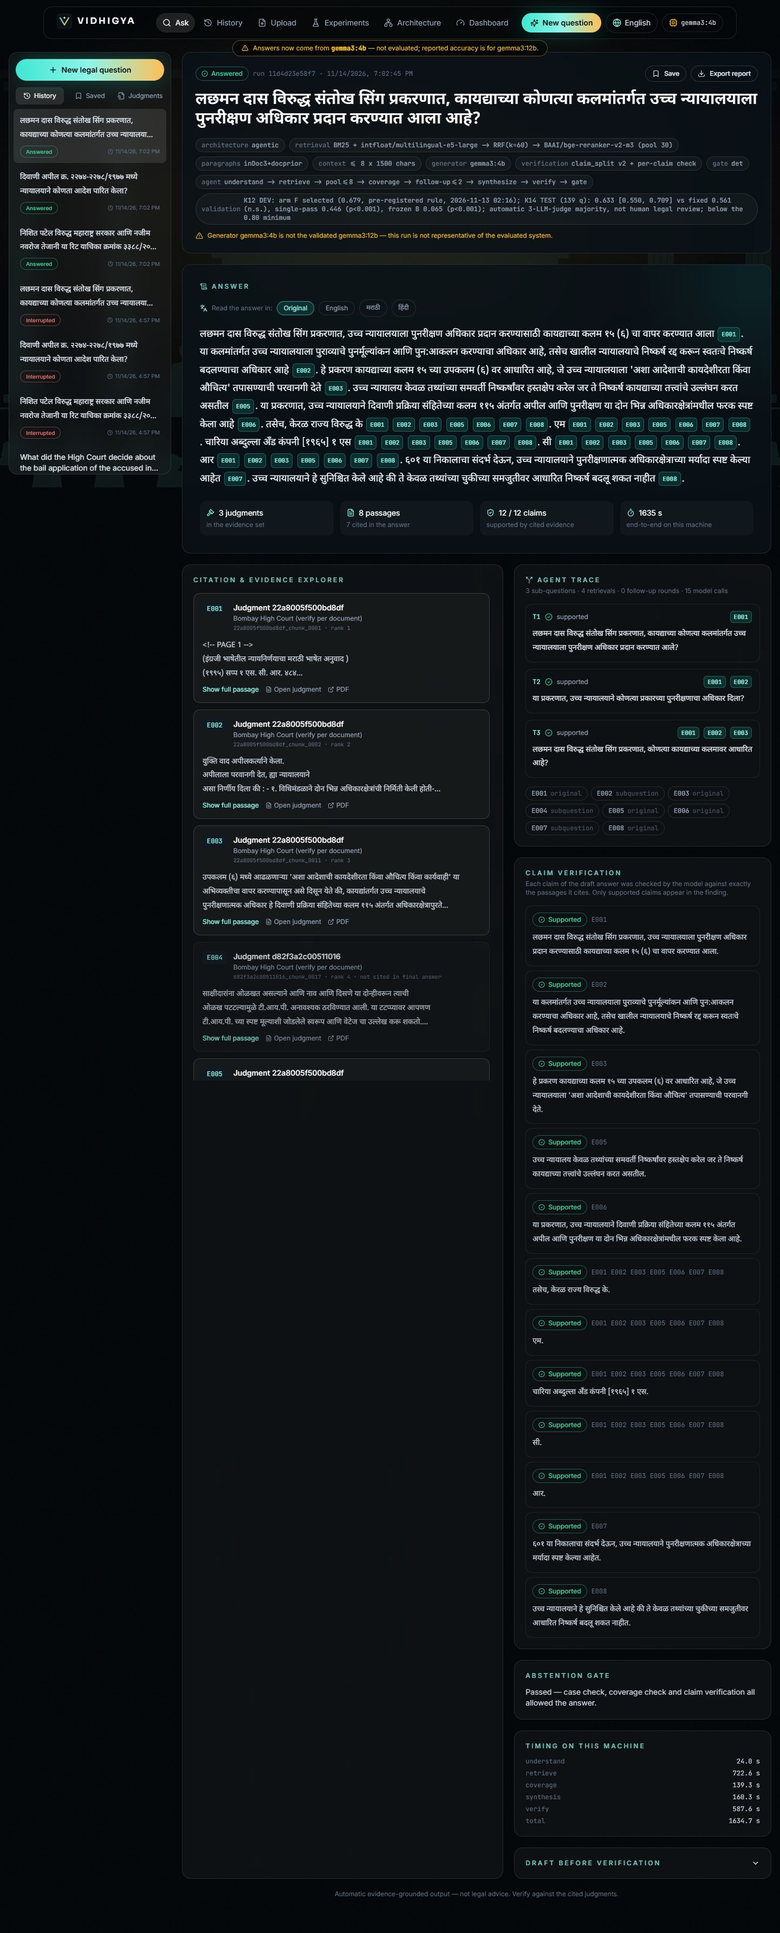
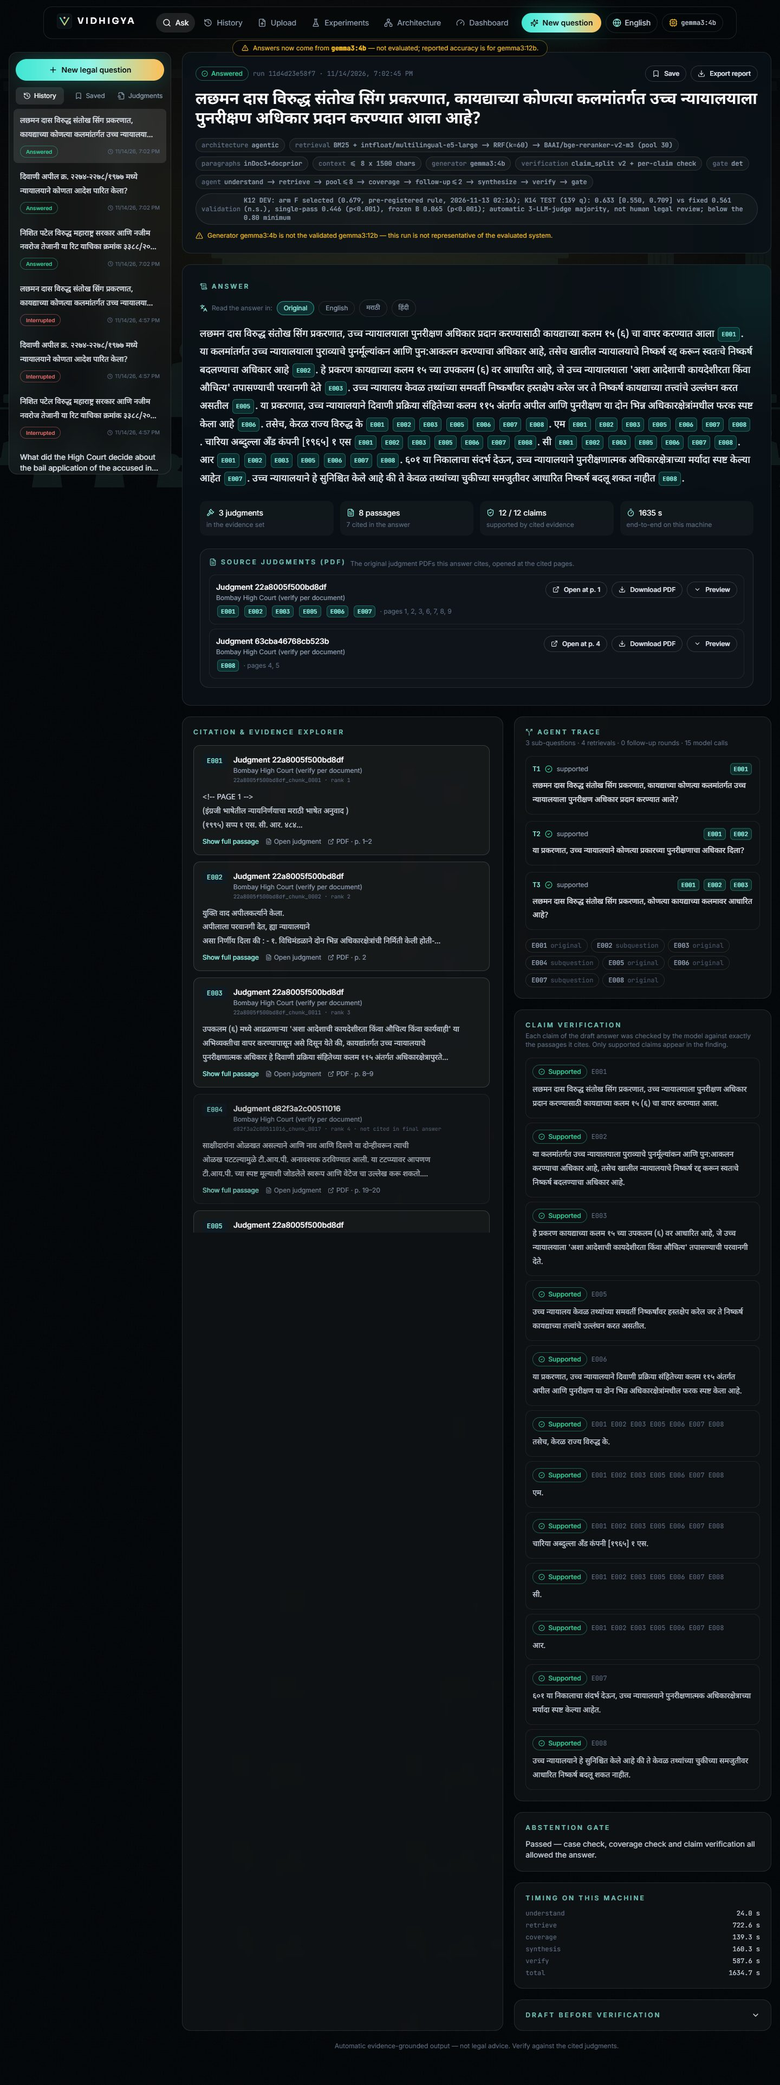
Return the source judgment PDFs with every answer
- API: each run now includes 'sources' (one entry per judgment in the evidence:
  cited or consulted, its evidence labels, the PDF pages of those passages and
  the PDF link) and every evidence item carries its PDF pages. Pages come from
  the '<!-- PAGE n -->' markers of the stored passages (a passage that starts
  mid-page continues the last marked page); uploaded judgments store their pages.
  Checked against the PDF text: all 8 passages of a sample run map to the right pages.
- /api/judgments/{doc}/pdf?download=1 saves the PDF named after the case number
- Answer page: 'Source judgments (PDF)' panel under the answer with Open at the
  cited page, Download PDF and an inline preview; for abstentions it lists the
  judgments consulted. Evidence cards' PDF links open at the passage's page.
- Export report lists the source PDFs with links to the cited pages
- Marathi and Hindi labels for the new panel; README and screenshot updated

Changed region(s): [[0.25, 0.0, 0.9688, 0.9952], [0.0, 0.0, 0.2188, 0.2488], [0.9062, 0.2799, 0.9375, 0.311]]

diff --git a/frontend/src/components/RunView.tsx b/frontend/src/components/RunView.tsx
@@ -2,7 +2,7 @@ import { Fragment, useEffect, useMemo, useRef, useState } from 'react'
 import { Link } from 'react-router-dom'
 import { AnimatePresence, motion } from 'framer-motion'
 import { AlertTriangle, Bookmark, BookmarkCheck, CheckCircle2, ChevronDown, Download, ExternalLink, FileText, Gavel, Loader2, ScrollText, ShieldAlert, ShieldCheck, Timer, XCircle } from 'lucide-react'
-import { api, isDeva, type Evidence, type Run, type RunEvent } from '../api'
+import { api, isDeva, type Evidence, type Run, type RunEvent, type Source } from '../api'
 import PipelineViz from './PipelineViz'
 import AgentTrace from './AgentTrace'
 import { stageIndex } from '../pipeline'
@@ -79,9 +79,43 @@ function EvidenceCard({ e, on, cited, onSelect }: { e: Evidence; on: boolean; ci
       <div className="mt-2 flex flex-wrap items-center gap-3 text-xs">
         <button onClick={() => setOpen(!open)} className="text-electric-300 hover:underline">{open ? t('show_less') : t('show_full')}</button>
         <Link to={`/judgments/${e.document_id}?chunk=${e.chunk_id}`} className="inline-flex items-center gap-1 text-slate-400 hover:text-white"><FileText size={12} />{t('open_judgment')}</Link>
-        <a href={api.pdfUrl(e.document_id)} target="_blank" rel="noreferrer" className="inline-flex items-center gap-1 text-slate-400 hover:text-white"><ExternalLink size={12} />PDF</a>
+        <a href={api.pdfUrl(e.document_id, e.pages?.[0])} target="_blank" rel="noreferrer" className="inline-flex items-center gap-1 text-slate-400 hover:text-white"><ExternalLink size={12} />PDF{e.pages?.length ? ` · p. ${e.pages.join('–')}` : ''}</a>
       </div>
     </motion.div>
+  )
+}
+
+const pageList = (p: number[]) => (p.length ? `${p.length === 1 ? 'page' : 'pages'} ${p.join(', ')}` : 'pages not recorded')
+
+// The source PDFs behind the answer: every judgment it cites (or, for an abstention, the judgments that were consulted),
+// opened at the cited page, downloadable, and previewable inline.
+function SourcePdfs({ sources, answered, onCite }: { sources: Source[]; answered: boolean; onCite: (id: string) => void }) {
+  const [preview, setPreview] = useState<string | null>(null)
+  const shown = answered ? sources.filter((s) => s.cited) : sources
+  if (!shown.length) return null
+  const open = shown.find((s) => s.document_id === preview)
+  return (
+    <div className="mt-6 rounded-2xl border border-white/10 bg-white/[0.02] p-4">
+      <div className="flex flex-wrap items-baseline gap-2"><div className="eyebrow flex items-center gap-2"><FileText size={14} />{answered ? 'Source judgments (PDF)' : 'Judgments consulted (PDF)'}</div>
+        <span className="text-xs text-slate-500">{answered ? 'The original judgment PDFs this answer cites, opened at the cited pages.' : 'No answer was released; these are the judgments the evidence came from.'}</span></div>
+      <ul className="mt-3 space-y-2">{shown.map((s) => { const j = s.judgment; const ids = s.cited_ids.length ? s.cited_ids : s.evidence_ids
+        return (<li key={s.document_id} className={`rounded-xl border p-3 transition ${preview === s.document_id ? 'border-electric-400/50 bg-electric-500/[0.05]' : 'border-white/[0.07]'}`}>
+          <div className="flex flex-wrap items-start gap-3">
+            <div className="min-w-0 flex-1">
+              <Link to={`/judgments/${s.document_id}`} className="block text-sm font-medium text-white hover:underline">{j?.case_title || `Judgment ${s.document_id}`}</Link>
+              <div className="mt-0.5 text-xs text-slate-400">{[j?.case_number, j?.court, j?.decision_date].filter(Boolean).join(' · ') || s.document_id}</div>
+              <div className="mt-1.5 flex flex-wrap items-center gap-1.5 text-xs text-slate-500">
+                {ids.map((id) => <button key={id} onClick={() => onCite(id)} className="cite">{id}</button>)}<span>· {pageList(s.pages)}</span></div>
+            </div>
+            {s.pdf_available ? (<div className="flex flex-wrap gap-2">
+              <a href={api.pdfUrl(s.document_id, s.first_page)} target="_blank" rel="noreferrer" className="btn-ghost px-3 py-1.5 text-xs"><ExternalLink size={13} />{s.first_page ? `Open at p. ${s.first_page}` : 'Open PDF'}</a>
+              <a href={api.pdfDownloadUrl(s.document_id)} className="btn-ghost px-3 py-1.5 text-xs"><Download size={13} />Download PDF</a>
+              <button onClick={() => setPreview(preview === s.document_id ? null : s.document_id)} className="btn-ghost px-3 py-1.5 text-xs">{preview === s.document_id ? <ChevronDown size={13} className="rotate-180" /> : <ChevronDown size={13} />}{preview === s.document_id ? 'Hide preview' : 'Preview'}</button>
+            </div>) : <span className="text-xs text-warn">PDF not available on this server</span>}
+          </div>
+        </li>) })}</ul>
+      {open && <iframe key={open.document_id} title={`PDF of ${open.document_id}`} src={api.pdfUrl(open.document_id, open.first_page)} className="mt-3 h-[75vh] w-full rounded-xl border border-white/10 bg-white" />}
+    </div>
   )
 }
 
@@ -163,6 +197,7 @@ export default function RunView({ runId, onChange }: { runId: string; onChange: 
               [ShieldCheck, `${supported} / ${run.claims.length} claims`, 'supported by cited evidence'], [Timer, run.timings?.total_ms ? `${(run.timings.total_ms / 1000).toFixed(0)} s` : '—', 'end-to-end on this machine']].map(([I, a, b], i) => {
               const Icon = I as typeof Gavel; return (<div key={i} className="rounded-xl bg-white/[0.03] p-3"><div className="flex items-center gap-2 text-white"><Icon size={15} className="text-electric-300" />{a as string}</div><div className="mt-1 text-xs text-slate-500">{b as string}</div></div>) })}
           </div>
+          <SourcePdfs sources={run.sources ?? []} answered={run.outcome === 'answered'} onCite={(id) => { setActive(id); setClaimSel(null) }} />
         </div>
 
         <div className="grid gap-5 xl:grid-cols-[1.25fr_1fr]">

diff --git a/frontend/src/api.ts b/frontend/src/api.ts
@@ -1,13 +1,18 @@
 // Typed client for the VIDHIGYA FastAPI backend. Every value shown in the UI comes from these endpoints.
 export type Judgment = { document_id: string; case_title?: string | null; case_number?: string | null; court?: string | null;
   decision_date?: string | null; case_type?: string | null; language?: string | null; page_count?: number | null; file_name?: string | null }
-export type Evidence = { evidence_id: string; rank: number; chunk_id: string; document_id: string; passage: string; score: number | null; judgment: Judgment | null }
+export type Evidence = { evidence_id: string; rank: number; chunk_id: string; document_id: string; passage: string; score: number | null; judgment: Judgment | null;
+  pages?: number[] }
+// one judgment behind an answer: its PDF and the pages of the passages the answer cites from it
+export type Source = { document_id: string; judgment: Judgment | null; cited: boolean; cited_ids: string[]; evidence_ids: string[];
+  pages: number[]; first_page: number | null; pdf_available: boolean; pdf_url: string }
 export type Claim = { idx: number; claim: string; cited: string[]; supported: number; reason: string }
 export type RunEvent = { ts: number; stage: string; message: string }
 export type Run = { run_id: string; created_at: string; question: string; status: 'queued' | 'running' | 'done' | 'error' | 'interrupted';
   stage: string; outcome: string | null; answer: string | null; citations: string[] | null; raw_answer: string | null;
   gate: { blocked: boolean; reason: string | null; mode?: string; case_gate?: string | null } | null; config: Record<string, string> | null;
-  timings: Record<string, number> | null; error: string | null; saved: number; agent: AgentInfo | null; evidence: Evidence[]; claims: Claim[]; events: RunEvent[] }
+  timings: Record<string, number> | null; error: string | null; saved: number; agent: AgentInfo | null; evidence: Evidence[]; claims: Claim[]; events: RunEvent[];
+  sources?: Source[] }
 export type AgentTask = { task_id: string; question: string; followup_queries?: string[] }
 export type Coverage = { task_id: string; status: 'supported' | 'partial' | 'missing'; supporting_ids: string[]; missing: string }
 export type AgentInfo = { tasks: AgentTask[]; analysis: { is_multi_part: boolean; accepted: string[]; rejected: string[]; fallback: boolean } | null;
@@ -53,7 +58,9 @@ export const api = {
   searchJudgments: (q: string) => j<Judgment[]>(`/api/judgments?q=${encodeURIComponent(q)}`),
   translate: (id: string, lang: string) => j<{ lang: string; text: string; model: string; cached: boolean }>(`/api/research/${id}/translate?lang=${lang}`, { method: 'POST' }),
   exportUrl: (id: string) => `/api/research/${id}/export`,
-  pdfUrl: (doc: string) => `/api/judgments/${doc}/pdf`,
+  // PDF of a judgment; page opens the browser's PDF viewer at that page, download saves the file
+  pdfUrl: (doc: string, page?: number | null) => `/api/judgments/${doc}/pdf${page ? `#page=${page}` : ''}`,
+  pdfDownloadUrl: (doc: string) => `/api/judgments/${doc}/pdf?download=1`,
   // live stage events (Server-Sent Events); returns a function that closes the stream
   events: (id: string, onEvent: (e: RunEvent) => void, onEnd: () => void) => {
     const es = new EventSource(`/api/research/${id}/events`)

diff --git a/frontend/src/uiTranslations.ts b/frontend/src/uiTranslations.ts
@@ -151,4 +151,10 @@ export const UI: [string, string, string][] = [
   ['— fair-to-moderate; results are automatic, not human legal review.', '— साधारण ते मध्यम; निकाल स्वयंचलित, मानवी कायदेशीर तपासणी नाही.', '— सामान्य से मध्यम; परिणाम स्वचालित, मानवीय कानूनी समीक्षा नहीं.'],
   // run view, experiments page, fast mode
   ['Fast mode', 'जलद पद्धत', 'तेज़ मोड'],
+  // source judgment PDFs under the answer
+  ['Source judgments (PDF)', 'स्रोत निकाल (PDF)', 'स्रोत निर्णय (PDF)'], ['Judgments consulted (PDF)', 'तपासलेले निकाल (PDF)', 'देखे गए निर्णय (PDF)'],
+  ['The original judgment PDFs this answer cites, opened at the cited pages.', 'या उत्तरात संदर्भित केलेल्या मूळ निकालांच्या PDF, संदर्भित पानावर उघडतात.', 'इस उत्तर में उद्धृत मूल निर्णयों की PDF, उद्धृत पृष्ठ पर खुलती हैं.'],
+  ['No answer was released; these are the judgments the evidence came from.', 'उत्तर दिले गेले नाही; पुरावे या निकालांमधून घेतले होते.', 'कोई उत्तर नहीं दिया गया; साक्ष्य इन निर्णयों से लिए गए थे.'],
+  ['Open PDF', 'PDF उघडा', 'PDF खोलें'], ['Download PDF', 'PDF डाउनलोड करा', 'PDF डाउनलोड करें'], ['Preview', 'पूर्वावलोकन', 'पूर्वावलोकन'],
+  ['Hide preview', 'पूर्वावलोकन लपवा', 'पूर्वावलोकन छिपाएँ'], ['PDF not available on this server', 'या सर्व्हरवर PDF उपलब्ध नाही', 'इस सर्वर पर PDF उपलब्ध नहीं'],
 ]

diff --git a/backend/app/main.py b/backend/app/main.py
@@ -3,7 +3,7 @@ research result files at request time (never hard-coded)."""
 from __future__ import annotations
 import os
 os.environ.setdefault('HF_HUB_OFFLINE', '1')  # cached models only: no network checks at start-up
-import asyncio, csv, json, os, threading
+import asyncio, csv, json, os, re, threading
 from pathlib import Path
 from datetime import datetime, timezone
 from fastapi import Depends, FastAPI, File, Header, HTTPException, Request, UploadFile
@@ -28,6 +28,62 @@ class ResearchIn(BaseModel):
     question: str = Field(min_length=5, max_length=2000)
 
 
+_PAGE = re.compile(r'<!--\s*PAGE\s+(\d+)\s*-->')
+
+
+def _passage_pages(con, ev):
+    """chunk_id -> PDF pages the stored passage spans. Corpus chunks carry '<!-- PAGE n -->' markers; a chunk that starts
+    mid-page continues the last page marked in the earlier chunks of the same judgment. Uploaded chunks store their pages."""
+    out = {}
+    for doc in {e['document_id'] for e in ev}:
+        want = {e['chunk_id'] for e in ev if e['document_id'] == doc}
+        if doc.startswith('up_'):
+            for r in U.db().execute(f"SELECT chunk_id, pages FROM upload_chunks WHERE chunk_id IN ({','.join('?' * len(want))})", list(want)):
+                try:
+                    out[r['chunk_id']] = sorted({int(p) for p in json.loads(r['pages'] or '[]')})
+                except (TypeError, ValueError):
+                    out[r['chunk_id']] = []
+            continue
+        current = None
+        for r in con.execute('SELECT chunk_id, text FROM chunks WHERE document_id=? ORDER BY chunk_id', (doc,)):
+            text = r['text'] or ''
+            own = [int(p) for p in _PAGE.findall(text)]
+            if r['chunk_id'] in want:
+                lead = [] if _PAGE.match(text.lstrip()) or current is None else [current]
+                out[r['chunk_id']] = sorted(set(lead + own))
+            if own:
+                current = own[-1]
+    return out
+
+
+def _pdf_path(doc):
+    if doc.startswith('up_'):
+        return Path(C.UPLOADS_DIR) / 'pdfs' / f'{doc}.pdf'
+    j = P.db().execute('SELECT file_name FROM judgments WHERE document_id=?', (doc,)).fetchone()
+    return Path(C.PDF_DIR) / j['file_name'] if j and j['file_name'] else None
+
+
+def _sources(ev, cited):
+    """One entry per judgment in the evidence: its PDF, the passages the answer cites from it and the pages they are on.
+    Judgments cited by the answer come first, in order of their best-ranked passage."""
+    by = {}
+    for e in ev:
+        s = by.setdefault(e['document_id'], {'document_id': e['document_id'], 'judgment': e.get('judgment'), 'evidence_ids': [],
+                                              'cited_ids': [], 'pages': set(), 'best_rank': e['rank']})
+        s['evidence_ids'].append(e['evidence_id'])
+        if e['evidence_id'] in cited:
+            s['cited_ids'].append(e['evidence_id'])
+    for s in by.values():
+        use = s['cited_ids'] or s['evidence_ids']
+        s['pages'] = sorted({p for e in ev if e['evidence_id'] in use for p in e.get('pages', [])})
+        s['first_page'] = s['pages'][0] if s['pages'] else None
+        s['cited'] = bool(s['cited_ids'])
+        p = _pdf_path(s['document_id'])
+        s['pdf_available'] = bool(p and p.exists())
+        s['pdf_url'] = f"/api/judgments/{s['document_id']}/pdf"
+    return sorted(by.values(), key=lambda s: (not s['cited'], s['best_rank']))
+
+
 def _run_json(run_id):
     con = P.db(); r = con.execute('SELECT * FROM research_runs WHERE run_id=?', (run_id,)).fetchone()
     if not r:
@@ -43,7 +99,11 @@ def _run_json(run_id):
             meta[e['document_id']] = U.judgment(e['document_id'])
     for e in ev:
         e['judgment'] = meta.get(e['document_id'])
+    pages = _passage_pages(con, ev)
+    for e in ev:
+        e['pages'] = pages.get(e['chunk_id'], [])
     d['evidence'] = ev
+    d['sources'] = _sources(ev, set(d.get('citations') or []))
     d['claims'] = [dict(x, cited=json.loads(x['cited'])) for x in con.execute('SELECT * FROM run_claims WHERE run_id=? ORDER BY idx', (run_id,))]
     d['events'] = [dict(x) for x in con.execute('SELECT ts, stage, message FROM run_events WHERE run_id=? ORDER BY ts', (run_id,))]
     return d
@@ -177,10 +237,17 @@ def translate(run_id: str, lang: str):
 
 
 @app.get('/api/research/{run_id}/export', response_class=PlainTextResponse)
-def export(run_id: str):
-    d = _run_json(run_id)
+def export(run_id: str, request: Request):
+    d = _run_json(run_id); base = str(request.base_url).rstrip('/')
     L = [f"# VIDHIGYA research report", '', f"**Question:** {d['question']}", f"**Run:** {d['run_id']}  ·  {d['created_at']}  ·  outcome: {d['outcome']}",
-         f"**Configuration:** {json.dumps(d['config'], ensure_ascii=False)}", '', '## Answer', '', d['answer'] or '(no answer)', '', '## Evidence']
+         f"**Configuration:** {json.dumps(d['config'], ensure_ascii=False)}", '', '## Answer', '', d['answer'] or '(no answer)', '', '## Source judgments (PDF)', '']
+    for s in d['sources']:
+        j = s.get('judgment') or {}
+        where = f"pages {', '.join(map(str, s['pages']))}" if s['pages'] else 'pages not recorded'
+        link = f"{base}{s['pdf_url']}#page={s['first_page'] or 1}" if s['pdf_available'] else '(PDF not available)'
+        L.append(f"- {'Cited' if s['cited'] else 'Consulted'}: {j.get('case_title') or s['document_id']} ({j.get('case_number') or s['document_id']}) — "
+                 f"{', '.join(s['cited_ids'] or s['evidence_ids'])}, {where} — {link}")
+    L += ['', '## Evidence']
     for e in d['evidence']:
         j = e.get('judgment') or {}
         L += ['', f"### [{e['evidence_id']}] {j.get('case_title') or e['document_id']}", f"{j.get('court', '')} · {j.get('case_number', '')} · {j.get('decision_date', '')} · chunk {e['chunk_id']}", '', e['passage']]
@@ -205,17 +272,18 @@ def judgment(doc: str):
 
 
 @app.get('/api/judgments/{doc}/pdf')
-def judgment_pdf(doc: str):
-    if doc.startswith('up_'):
-        p = Path(C.UPLOADS_DIR) / 'pdfs' / f'{doc}.pdf'
-        if not U.judgment(doc) or not p.exists():
-            raise HTTPException(404, 'PDF not available')
-        return FileResponse(p, media_type='application/pdf')
-    j = P.db().execute('SELECT file_name FROM judgments WHERE document_id=?', (doc,)).fetchone()
-    p = Path(C.PDF_DIR) / (j['file_name'] if j else '_')
-    if not j or not p.exists():
+def judgment_pdf(doc: str, download: bool = False):
+    """Source PDF of a judgment, shown in the browser; ?download=1 saves it under a name built from the case number."""
+    if doc.startswith('up_') and not U.judgment(doc):
         raise HTTPException(404, 'PDF not available')
-    return FileResponse(p, media_type='application/pdf')
+    p = _pdf_path(doc)
+    if not p or not p.exists():
+        raise HTTPException(404, 'PDF not available')
+    if not download:
+        return FileResponse(p, media_type='application/pdf')
+    j = (U.judgment(doc) if doc.startswith('up_') else dict(P.db().execute('SELECT case_number FROM judgments WHERE document_id=?', (doc,)).fetchone() or {})) or {}
+    name = re.sub(r'[^\w.-]+', '_', (j.get('case_number') or '').strip()).strip('_')
+    return FileResponse(p, media_type='application/pdf', filename=f"VIDHIGYA_{name + '_' if name else ''}{doc}.pdf")
 
 
 @app.get('/api/judgments')

diff --git a/README.md b/README.md
@@ -41,6 +41,7 @@ VIDHIGYA treats **sufficient evidence as a precondition for answering**:
 | **Hybrid search** | BM25 and multilingual-E5 are fused with Reciprocal Rank Fusion. bge-reranker-v2-m3 then rescores the results, and the best paragraphs are selected inside the top judgments. |
 | **Agentic research** | A bounded LangGraph agent splits the question into tasks, checks evidence coverage per task, and searches again for gaps. |
 | **Cited answers** | Every sentence carries an evidence label (E001, E002, …) that opens the exact passage, the judgment and its PDF. |
+| **Source PDFs with every answer** | Each answer lists the original judgment PDFs it cites. Each one opens at the page the cited passage comes from, can be downloaded, and can be previewed inline. Page numbers come from the page markers stored with each passage. |
 | **Claim verification** | The draft answer is split into claims. Each claim is checked against only the passages it cites, and unsupported claims are removed. |
 | **Fail-closed gate** | The system answers only if the case check passes, the coverage check passes and at least one claim is verified; otherwise it abstains with a coded reason. |
 | **Upload new judgments** | An administrator uploads a PDF. Damaged pages are re-read with OCR, the judgment is chunked with ACPMC and indexed, and it becomes searchable at once without touching the frozen corpus index. |
@@ -130,7 +131,8 @@ This is the research workspace. The answer page has five parts:
 - **Answer card:**
   - the answer, with clickable evidence labels;
   - a switch to read it in English, Marathi or Hindi (citation labels must survive the translation);
-  - totals for judgments, passages, verified claims and time.
+  - totals for judgments, passages, verified claims and time;
+  - **Source judgments (PDF):** every judgment the answer cites, with its evidence labels and the PDF pages they come from. Each judgment has buttons to **Open at p. N** (the original PDF at the cited page), **Download PDF**, and **Preview** (the PDF inside the page). When the system abstains, the same panel lists the judgments it consulted.
 - **Citation & evidence explorer:** every passage the agent used, with its judgment, chunk ID and rank. Each passage has *Show full passage*, *Open judgment* and *PDF* links.
 - **Right column:** the run's checks.
   - **Agent trace:** the sub-questions and the evidence that covered each one.
@@ -281,13 +283,14 @@ Every setting in `backend/app/config.py` can be overridden with an environment v
 | GET | `/api/health` | Component status, loaded models, and whether the generator is the validated one |
 | POST | `/api/research` | Start a research run (returns 202 and a run ID) |
 | GET | `/api/research` | List runs |
-| GET | `/api/research/{id}` | Full run: answer, evidence, claims, gate, timings |
+| GET | `/api/research/{id}` | Full run: answer, evidence (with PDF pages), claims, gate, timings, and `sources` (the cited judgments with PDF link, pages and evidence labels) |
 | GET | `/api/research/{id}/events` | Live stage events (Server-Sent Events) |
 | POST | `/api/research/{id}/save` | Save or unsave a run |
 | POST | `/api/research/{id}/translate` | Read the answer in another language (citation labels checked) |
-| GET | `/api/research/{id}/export` | Export the run as a text report |
+| GET | `/api/research/{id}/export` | Export the run as a text report, including links to the source PDFs at the cited pages |
 | DELETE | `/api/research/{id}` | Delete a run |
-| GET | `/api/judgments`, `/api/judgments/{doc}`, `/api/judgments/{doc}/pdf` | Judgment list, metadata and passages, source PDF |
+| GET | `/api/judgments`, `/api/judgments/{doc}` | Judgment list; metadata and passages |
+| GET | `/api/judgments/{doc}/pdf` | Source PDF shown in the browser (add `#page=N` to open at a page); `?download=1` saves it, named after the case number |
 | GET | `/api/models`, POST `/api/models/select` | List local models and choose the generator |
 | POST | `/api/uploads/login`, `/api/uploads/logout` | Administrator session |
 | POST, GET, DELETE | `/api/uploads`, `/api/uploads/{doc}` | Upload, list, inspect or remove a judgment (administrator only) |
